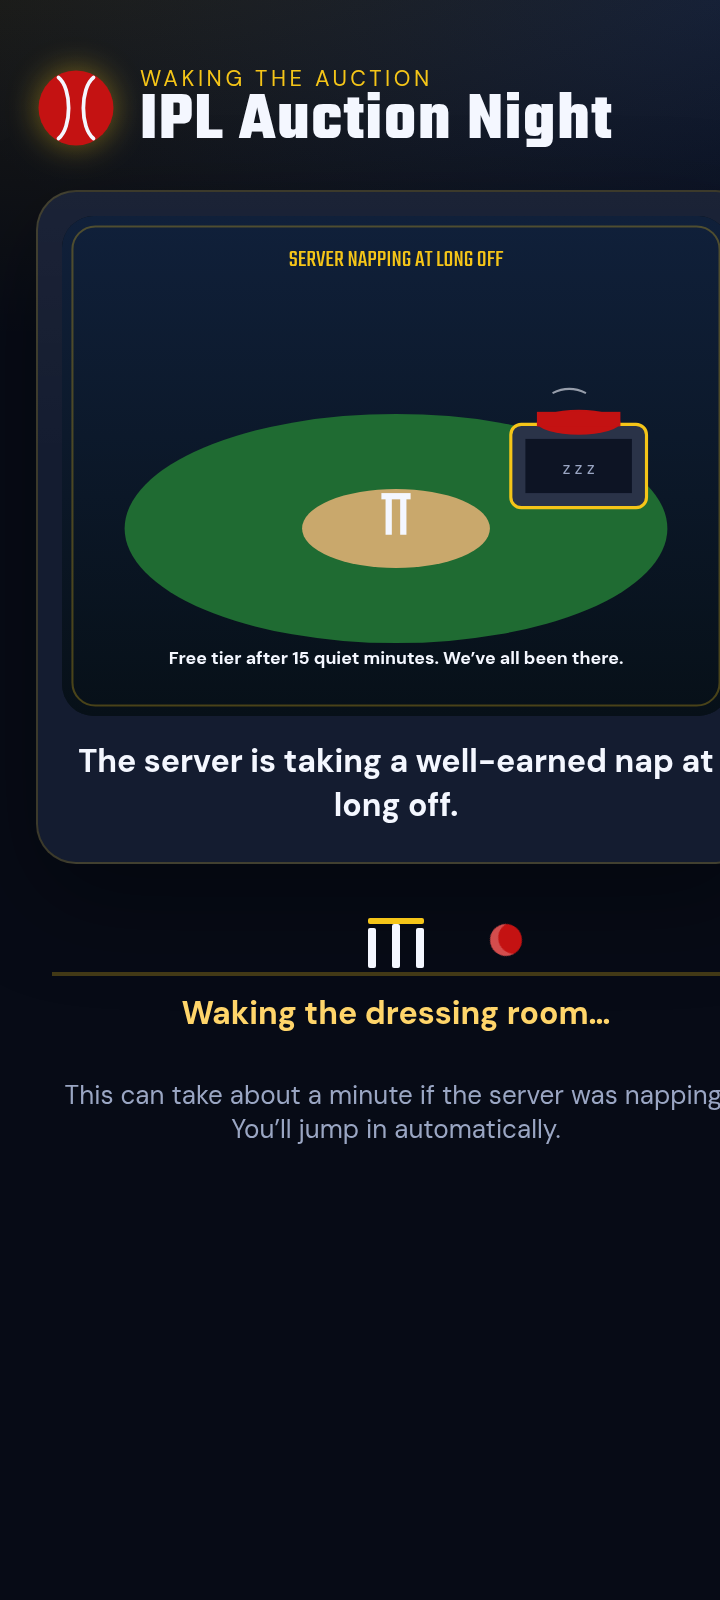
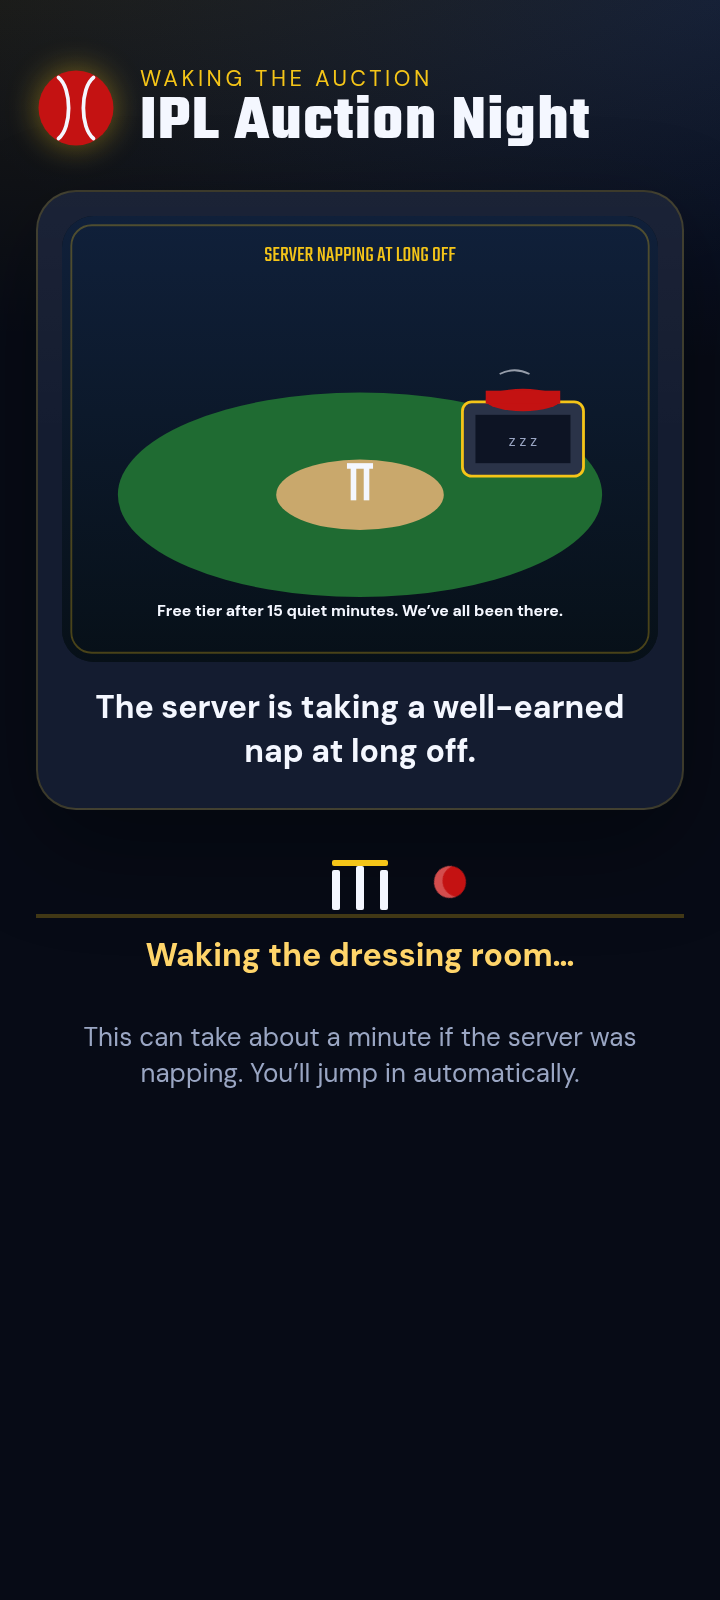
Stop the wake loader overflowing the viewport on phones.
The standalone loader CSS had no border-box sizing, so the 18px
side padding was added on top of a 100% width and clipped the
meme card and the closing line at 360px. Everything in the
shared loader stylesheet is now boxed, capped at 100%, and
padded evenly; the layout was checked at 320, 360, and 412px.

diff --git a/loader/ipl-loader.css b/loader/ipl-loader.css
@@ -1,3 +1,16 @@
+*,
+*::before,
+*::after { box-sizing: border-box; }
+
+html, body {
+  margin: 0;
+  padding: 0;
+  width: 100%;
+  max-width: 100%;
+  overflow-x: hidden;
+  background: var(--bg);
+}
+
 :root {
   --bg: #070b16;
   --card: #141c30;
@@ -8,14 +21,19 @@
   --muted: #9aa6c3;
   --font: "DM Sans", system-ui, sans-serif;
   --display: "Teko", "DM Sans", sans-serif;
+  --wake-pad: 18px;
 }
+
 .ipl-wake-root {
   position: fixed;
   inset: 0;
   z-index: 200;
   display: grid;
   place-items: start center;
-  overflow: auto;
+  width: 100%;
+  max-width: 100%;
+  overflow-x: hidden;
+  overflow-y: auto;
   background:
     radial-gradient(1200px 500px at 10% -10%, rgba(245, 197, 24, 0.12), transparent 50%),
     radial-gradient(900px 400px at 100% 0%, rgba(37, 99, 235, 0.16), transparent 45%),
@@ -25,15 +43,23 @@
 }
 .ipl-wake-root[hidden] { display: none !important; }
 .ipl-wake {
-  width: min(420px, 100%);
-  padding: 24px 18px 40px;
+  width: 100%;
+  max-width: min(420px, 100%);
+  padding: 24px var(--wake-pad) 40px;
   margin: 0 auto;
+  min-width: 0;
 }
 .ipl-wake-brand {
   display: flex;
   gap: 12px;
   align-items: center;
   margin: 8px 0 18px;
+  min-width: 0;
+  max-width: 100%;
+}
+.ipl-wake-brand > div {
+  min-width: 0;
+  flex: 1 1 auto;
 }
 .ipl-wake-ball { width: 40px; height: 40px; flex: 0 0 40px; filter: drop-shadow(0 0 8px rgba(245, 197, 24, 0.45)); }
 .ipl-wake-kicker {
@@ -46,12 +72,17 @@
 .ipl-wake-brand h1 {
   margin: 0;
   font-family: var(--display);
-  font-size: 34px;
-  line-height: 0.9;
+  font-size: clamp(26px, 9vw, 34px);
+  line-height: 0.95;
   letter-spacing: 0.02em;
+  overflow-wrap: break-word;
+  max-width: 100%;
 }
 .ipl-wake-card {
   margin: 0;
+  width: 100%;
+  max-width: 100%;
+  min-width: 0;
   background: linear-gradient(180deg, rgba(255,255,255,0.03), transparent 40%), var(--card);
   border: 1px solid var(--line);
   border-radius: 20px;
@@ -59,6 +90,8 @@
   box-shadow: 0 18px 50px rgba(0, 0, 0, 0.35);
 }
 .ipl-wake-frame {
+  width: 100%;
+  max-width: 100%;
   aspect-ratio: 4 / 3;
   border-radius: 16px;
   overflow: hidden;
@@ -66,23 +99,29 @@
 }
 .ipl-wake-frame img {
   width: 100%;
+  max-width: 100%;
   height: 100%;
   object-fit: cover;
   display: block;
 }
 .ipl-wake-card figcaption {
-  margin: 12px 6px 2px;
+  margin: 12px 0 2px;
+  padding: 0 4px;
   font-size: 16px;
   font-weight: 700;
   line-height: 1.35;
   text-align: center;
   color: var(--text);
   min-height: 2.7em;
+  max-width: 100%;
+  overflow-wrap: break-word;
 }
 .ipl-wake-progress {
   position: relative;
   height: 36px;
-  margin: 18px 8px 8px;
+  width: 100%;
+  max-width: 100%;
+  margin: 18px 0 8px;
   border-bottom: 2px solid rgba(245, 197, 24, 0.25);
 }
 .ipl-wake-stumps {
@@ -130,19 +169,27 @@
   50% { left: calc(100% - 16px); transform: rotate(360deg); }
   100% { left: 0; transform: rotate(720deg); }
 }
-.ipl-wake-line {
-  margin: 8px 8px 0;
+.ipl-wake-line,
+.ipl-wake-note {
+  margin: 8px 0 0;
+  padding: 0;
+  width: 100%;
+  max-width: 100%;
   text-align: center;
+  overflow-wrap: break-word;
+  word-wrap: break-word;
+}
+.ipl-wake-line {
   color: var(--gold-2);
   font-weight: 700;
   font-size: 16px;
   min-height: 2.4em;
 }
 .ipl-wake-note {
-  margin: 4px 12px 0;
-  text-align: center;
+  margin-top: 4px;
   color: var(--muted);
   font-size: 13px;
+  line-height: 1.4;
 }
 @media (prefers-reduced-motion: reduce) {
   .ipl-wake-ball-run { animation: none; left: 40%; }

diff --git a/scripts/shot-loader.js b/scripts/shot-loader.js
@@ -53,6 +53,35 @@ async function main() {
     await page.setViewport({ ...VIEW, deviceScaleFactor: 2 });
     await page.goto(`http://127.0.0.1:${port}/`, { waitUntil: "domcontentloaded", timeout: 20000 });
     await page.waitForFunction(() => Boolean(window.IplWakeLoader && document.querySelector("#ipl-wake-img")), { timeout: 10000 });
+
+    async function overflowAt(width) {
+      await page.setViewport({ width, height: 800, deviceScaleFactor: 2 });
+      await sleep(80);
+      return page.evaluate((w) => {
+        const root = document.querySelector(".ipl-wake-root") || document.documentElement;
+        const doc = document.documentElement;
+        const body = document.body;
+        const card = document.querySelector(".ipl-wake-card");
+        const note = document.querySelector(".ipl-wake-note");
+        const meas = (el) => {
+          if (!el) return null;
+          const r = el.getBoundingClientRect();
+          return { left: Math.round(r.left * 10) / 10, right: Math.round(r.right * 10) / 10, width: Math.round(r.width * 10) / 10 };
+        };
+        return {
+          width: w,
+          docScroll: doc.scrollWidth,
+          docClient: doc.clientWidth,
+          bodyScroll: body.scrollWidth,
+          rootScroll: root.scrollWidth,
+          rootClient: root.clientWidth,
+          card: meas(card),
+          note: meas(note),
+          overflow: Math.max(doc.scrollWidth, body.scrollWidth, root.scrollWidth) > w + 1,
+        };
+      }, width);
+    }
+
     // Pause rotation and pin three distinctive memes.
     const indexes = [0, 2, 6];
     const names = ["loader-meme-wifi.png", "loader-meme-dinner.png", "loader-meme-napping.png"];
@@ -83,6 +112,15 @@ async function main() {
       await page.screenshot({ path: file, fullPage: false, timeout: 20000 });
       console.log("wrote", file);
     }
+
+    for (const w of [320, 360, 412]) {
+      const info = await overflowAt(w);
+      console.log("overflow-check", JSON.stringify(info));
+      if (info.overflow || (info.card && info.card.right > w + 1) || (info.note && info.note.right > w + 1) || (info.card && info.card.left < -1)) {
+        throw new Error("horizontal overflow at " + w + "px: " + JSON.stringify(info));
+      }
+    }
+    await page.setViewport({ ...VIEW, deviceScaleFactor: 2 });
   } finally {
     await browser.close();
     await new Promise((r) => server.close(r));
